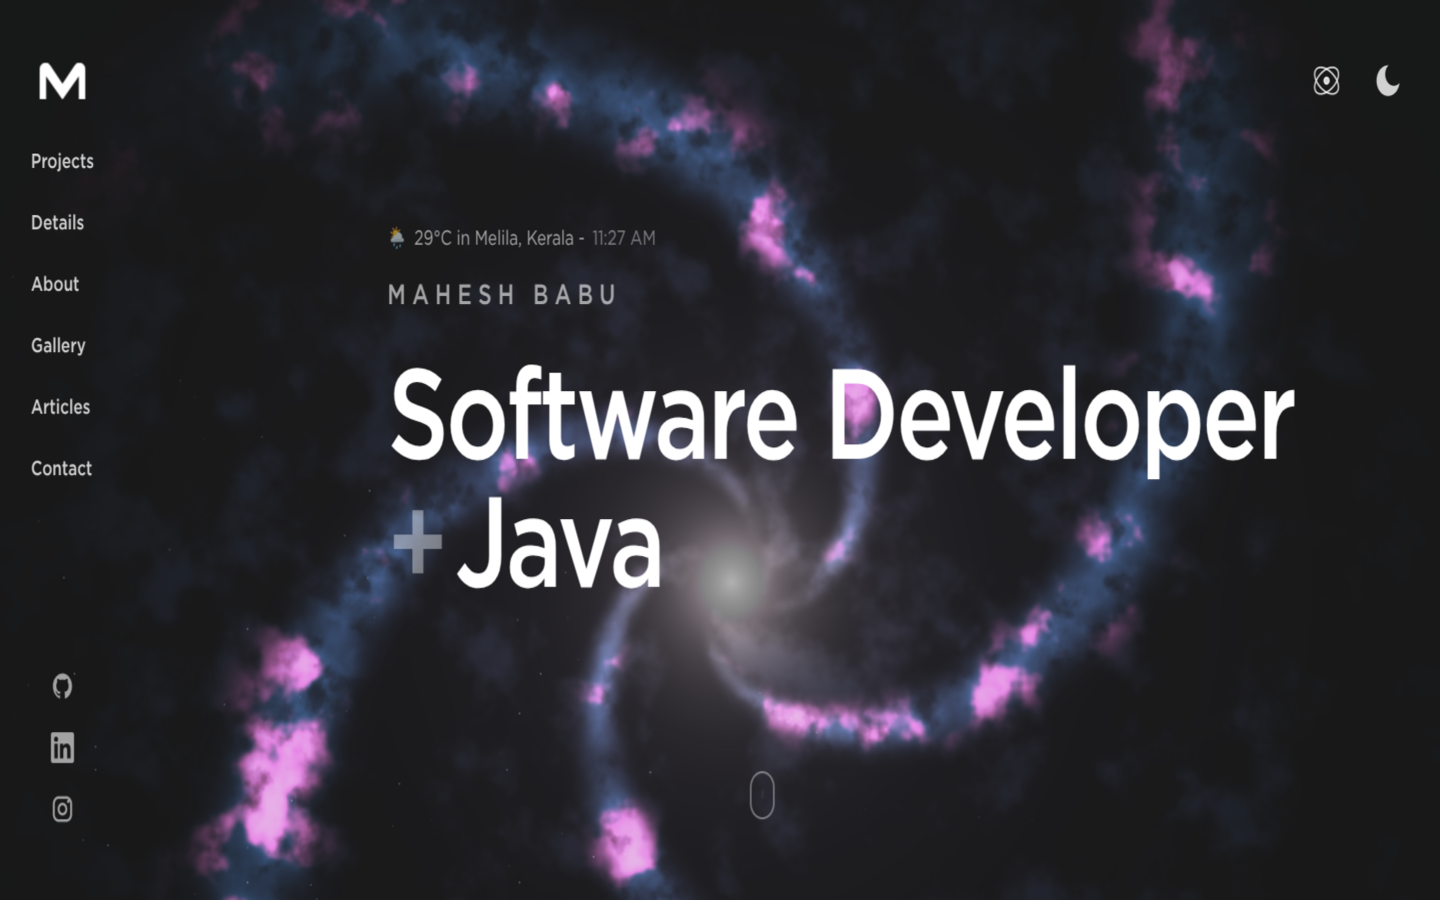
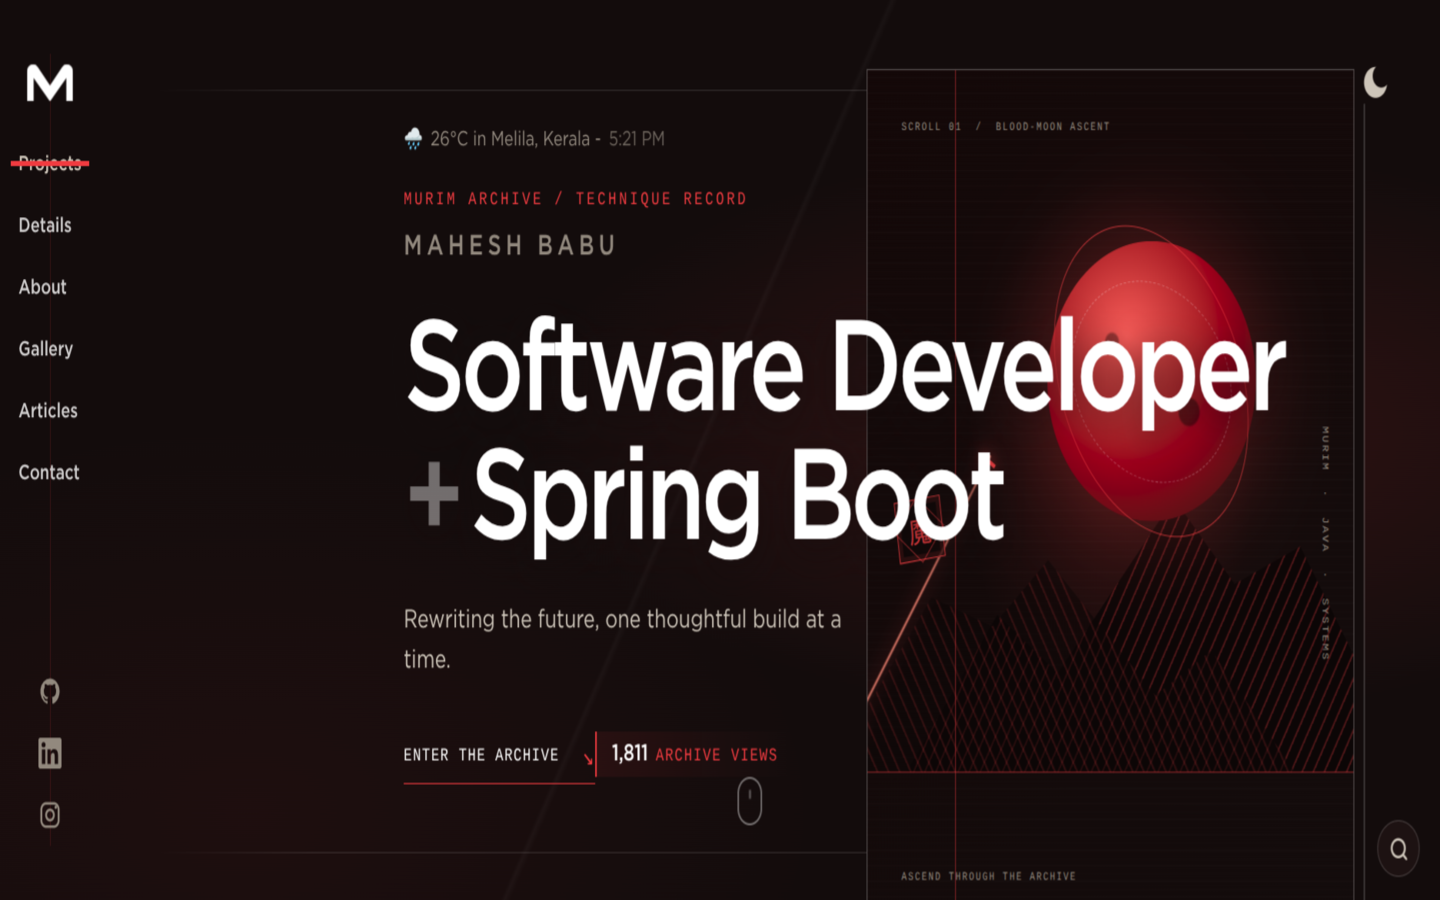
Remove skeleton post component and related styles from articles

diff --git a/app/routes/articles_._index/articles.jsx b/app/routes/articles_._index/articles.jsx
@@ -11,7 +11,7 @@ import { useWindowSize } from '~/hooks';
 import { Link as RouterLink, useLoaderData } from '@remix-run/react';
 import { useState, useEffect } from 'react';
 import { formatDate } from '~/utils/date';
-import { classes, cssProps } from '~/utils/style';
+import { cssProps } from '~/utils/style';
 import styles from './articles.module.css';
 
 function ArticlesPost({ slug, frontmatter, timecode, index }) {
@@ -93,46 +93,6 @@ function ArticlesPost({ slug, frontmatter, timecode, index }) {
   );
 }
 
-function SkeletonPost({ index }) {
-  return (
-    <article
-      aria-hidden="true"
-      className={classes(styles.post, styles.skeleton)}
-      data-featured="false"
-      style={index !== undefined ? cssProps({ delay: index * 100 + 200 }) : undefined}
-    >
-      <div className={styles.postLink}>
-        <div className={styles.postDetails}>
-          <div aria-hidden className={styles.postDate}>
-            <Divider notchWidth="64px" notchHeight="8px" />
-            Coming soon...
-          </div>
-          <Heading
-            className={styles.skeletonBone}
-            as="h2"
-            level={4}
-            style={{ height: 24, width: '70%' }}
-          />
-          <Text
-            className={styles.skeletonBone}
-            size="s"
-            as="p"
-            style={{ height: 90, width: '100%' }}
-          />
-          <div className={styles.postFooter}>
-            <Button secondary iconHoverShift icon="chevron-right" as="div">
-              Read more
-            </Button>
-            <Text className={styles.timecode} size="s">
-              00:00:00:00
-            </Text>
-          </div>
-        </div>
-      </div>
-    </article>
-  );
-}
-
 export function Articles() {
   const { posts, featured } = useLoaderData();
   const { width } = useWindowSize();
@@ -154,11 +114,6 @@ export function Articles() {
       {posts.map(({ slug, ...post }, index) => (
         <ArticlesPost key={slug} slug={slug} index={index} {...post} />
       ))}
-      {/*{Array(2)*/}
-      {/*  .fill()*/}
-      {/*  .map((skeleton, index) => (*/}
-      {/*    <SkeletonPost key={index} index={index} />*/}
-      {/*  ))}*/}
     </div>
   );
 

diff --git a/app/routes/articles_._index/articles.module.css b/app/routes/articles_._index/articles.module.css
@@ -109,19 +109,6 @@
   border-top: 1px solid color-mix(in lab, var(--text) 10%, transparent);
 }
 
-.skeleton {
-  filter: grayscale(1);
-  pointer-events: none;
-
-  & > * {
-    opacity: 0.3;
-  }
-}
-
-.skeletonBone {
-  background-color: color-mix(in lab, var(--text) 20%, transparent);
-}
-
 .post {
   --featuredPostPadding: var(--space5XL);
   --featuredPostClip: polygon(0 0, calc(100% - 32px) 0, 100% 32px, 100% 100%, 0 100%);
